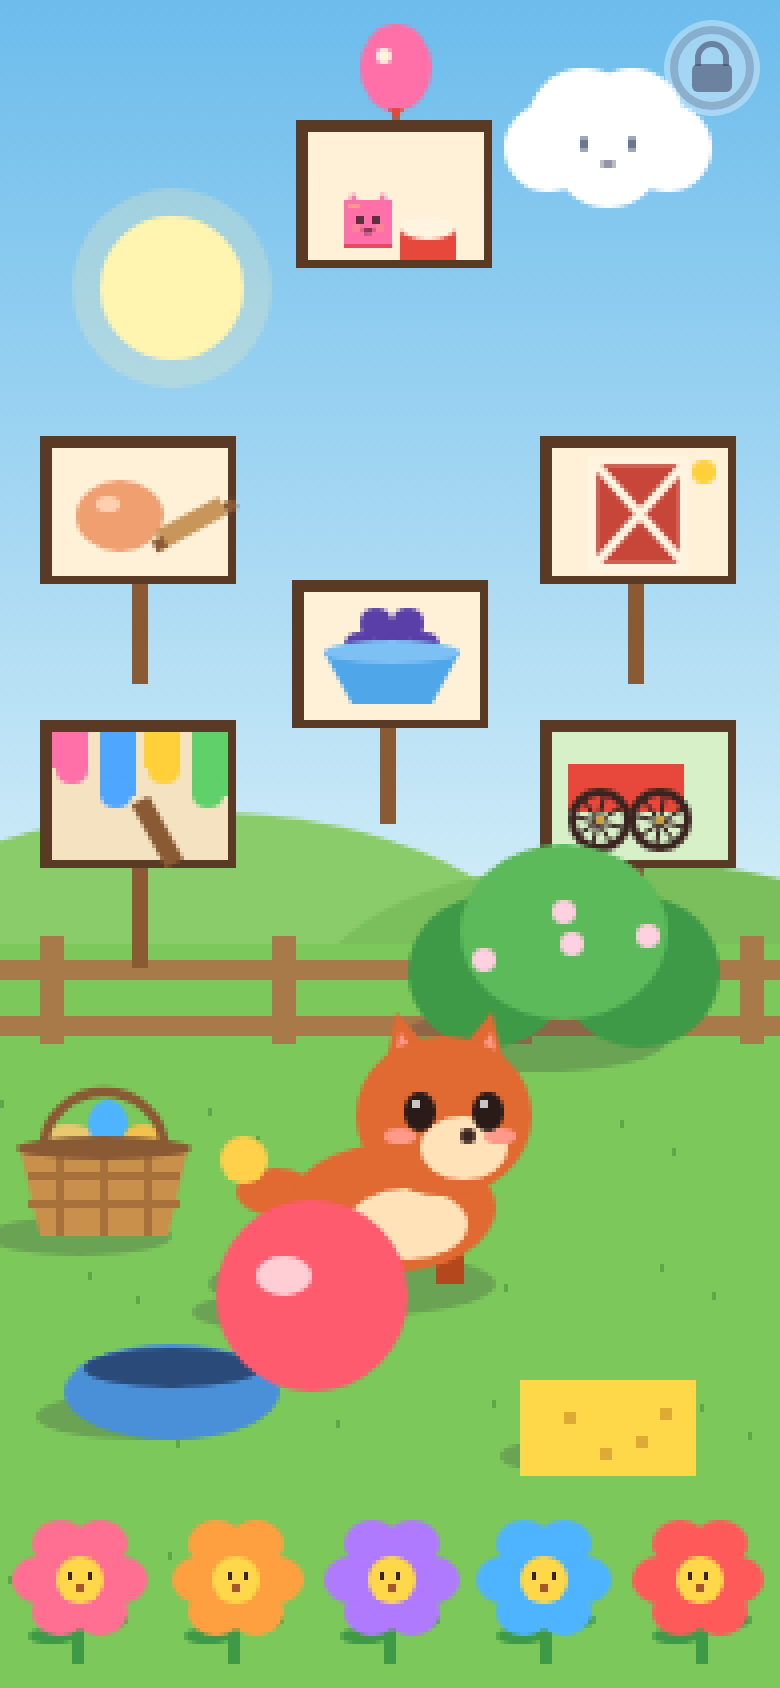
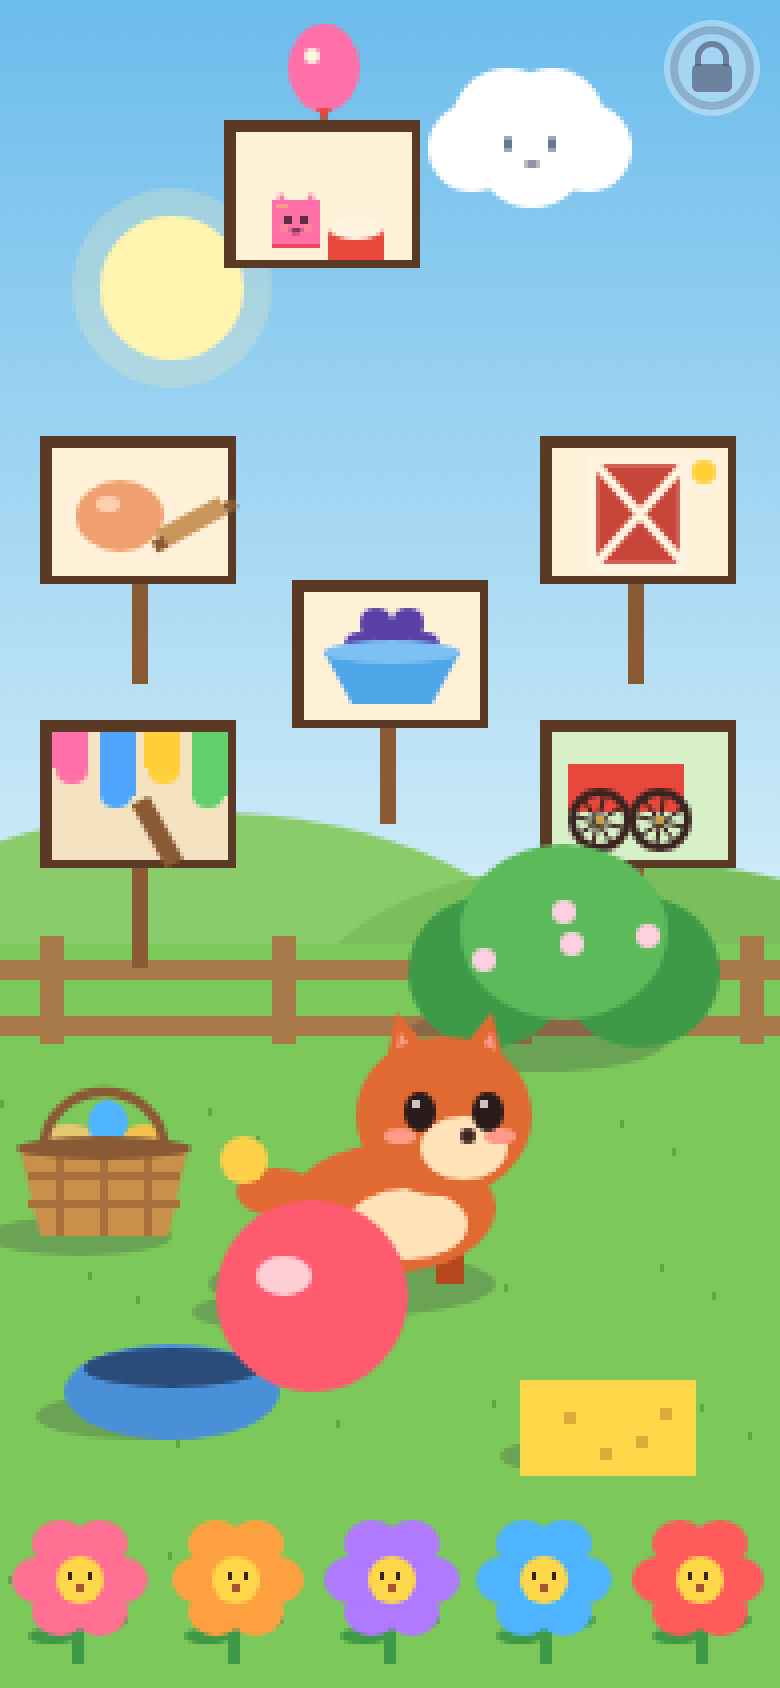
LR-TOYS-POLISH: keep the cloud off every sign board and the lock.
A cloud spot is refused when its body, eyes or mouth meet a sign board or the grown-up lock, and the face stays on screen. The pack sign stays at 0.85, 0.9, 0.8 and full size, with 285 of 285 taps.

Changed region(s): [[0.2769, 0.0, 0.9231, 0.1848]]

diff --git a/games/little-ranch/game.js b/games/little-ranch/game.js
@@ -333,20 +333,60 @@
       return winner(L.cloud.x, L.cloud.y) === 'cloud' && winner(sun.x, sun.y) === 'sun';
     }
     // Full size first. Slide the cloud aside (still clear of the sun) before easing the face gap. Shrink only when a large sign will not fit, and not below 0.72 while any large spot remains.
+    // A cloud spot is refused when its body, eyes or mouth meet a sign board (the pack sign included) or the grown-up lock. The face stays on screen.
     const tall = H >= W * 1.25, homeX = L.cloud.x, homeY = L.cloud.y, cr0 = L.cloud.r;
-    const cloudOk = x => x - cr0 * 1.3 >= 1 && x + cr0 * 1.3 <= W - 1 && Math.hypot(x - sun.x, homeY - sun.y) >= cr0 * 1.3 + L.U * .13;
-    const cloudXs = [homeX, W * .78, W * .88, W * .5, W * .42, W * .3, W * .2, W * .12].filter((x, i, all) => cloudOk(x) && all.findIndex(v => Math.abs(v - x) < .5) === i);
+    const cloudParts = (x, y) => [[-.75, .15, .55], [.75, .15, .55], [-.3, -.15, .7], [.3, -.2, .65], [0, .2, .7]].map(([dx, dy, k]) => ({ x: x + dx * cr0, y: y + dy * cr0, rx: cr0 * k, ry: cr0 * k })).concat([{ x: x - cr0 * .3, y: y + cr0 * .1, rx: cr0 * .07, ry: cr0 * .09 }, { x: x + cr0 * .3, y: y + cr0 * .1, rx: cr0 * .07, ry: cr0 * .09 }, { x, y: y + cr0 * .35, rx: cr0 * .12, ry: cr0 * .05 }]);
+    const partHits = (p, rect) => { const nx = Math.max(rect.x0, Math.min(p.x, rect.x1)), ny = Math.max(rect.y0, Math.min(p.y, rect.y1)); return ((nx - p.x) / p.rx) ** 2 + ((ny - p.y) / p.ry) ** 2 <= 1; };
+    const cloudHits = (x, y, extra) => {
+      const rects = five.map(n => box(L[n], 1, 'board')).concat(extra || []);
+      const lk = lockCanvas(); if (lk) rects.push(lk);
+      return cloudParts(x, y).some(p => rects.some(rect => partHits(p, rect)));
+    };
+    const faceOnScreen = (x, y) => cloudParts(x, y).slice(-3).every(p => p.x - p.rx >= 0 && p.x + p.rx <= W && p.y - p.ry >= 0 && p.y + p.ry <= H);
+    const cloudOk = (x, y) => x - cr0 * 1.3 >= 1 && x + cr0 * 1.3 <= W - 1 && Math.hypot(x - sun.x, y - sun.y) >= cr0 * 1.3 + L.U * .13 && faceOnScreen(x, y) && !cloudHits(x, y);
+    const z = L.size, hx0 = L.home.x + z * .42, hy0 = L.home.y - z * 1.25, hr = z * .66;
+    const headBox = { x0: hx0 - hr, x1: hx0 + hr, y0: hy0 - hr * 1.25, y1: hy0 + hr };
+    const br = L.R * 1.25, bx = L.bush.x, by = L.bush.y;
+    const bushE = [{ x: bx - br * .55, y: by - br * .3, rx: br * .6, ry: br * .55 }, { x: bx + br * .55, y: by - br * .3, rx: br * .6, ry: br * .55 }, { x: bx, y: by - br * .6, rx: br * .75, ry: br * .65 }];
+    const onBush = p => bushE.some(e => {
+      if (((p.x - e.x) / e.rx) ** 2 + ((p.y - e.y) / e.ry) ** 2 <= 1) return true;
+      for (let k = 0; k < 10; k++) { const a = k / 10 * 6.2832; if (((p.x + Math.cos(a) * p.rx - e.x) / e.rx) ** 2 + ((p.y + Math.sin(a) * p.ry - e.y) / e.ry) ** 2 <= 1) return true; }
+      return false;
+    });
+    const postsOf = () => five.map(n => box(L[n], 1, 'post'));
+    // The eyes and mouth have to stay off the posts, the bush and the baby's head, or the face is painted over.
+    const faceOpen = (x, y) => {
+      const posts = postsOf();
+      return cloudParts(x, y).slice(-3).every(p => !posts.some(rect => partHits(p, rect)) && !onBush(p) && !partHits(p, headBox));
+    };
+    const xSeeds = [homeX, W * .78, W * .88, W * .72, W * .68, W * .6, W * .5, W * .42, W * .3, W * .2, W * .12];
+    for (let x = W - cr0 * 1.3 - 1; x >= cr0 * 1.3 + 1; x -= Math.max(4, cr0 * .2)) xSeeds.push(x);
+    const ySeeds = [homeY];
+    for (let dy = cr0 * .35; homeY + dy < L.ground - cr0 * .2; dy += cr0 * .35) ySeeds.push(homeY + dy);
+    const spotsAt = y => { const xs = []; return xSeeds.filter(x => { if (xs.some(v => Math.abs(v - x) < .5) || !cloudOk(x, y)) return false; xs.push(x); return true; }); };
     const placeAt = scales => {
       const muls = tall ? [2.5, 2, 1.8] : [2.5, 1.5, 1.4];
-      for (const s of scales) for (const mul of muls) for (const x of cloudXs) {
-        L.cloud.x = x; L.cloud.y = homeY;
+      for (const s of scales) for (const mul of muls) for (const y of ySeeds) for (const x of spotsAt(y)) {
+        L.cloud.x = x; L.cloud.y = y;
         const hit = search(s, mul);
-        if (hit) return hit;
+        if (!(hit && !cloudHits(x, y, [box(hit, s, 'board')]))) continue;
+        let chosen = { x, y, hit };
+        if (!faceOpen(x, y)) {
+          for (let dx = cr0; dx >= -cr0; dx -= Math.max(2, cr0 * .08)) {
+            const nx = x + dx;
+            if (Math.abs(dx) < .5 || !cloudOk(nx, y) || !faceOpen(nx, y)) continue;
+            L.cloud.x = nx; L.cloud.y = y;
+            const h2 = search(s, mul);
+            if (h2 && !cloudHits(nx, y, [box(h2, s, 'board')])) { chosen = { x: nx, y, hit: h2 }; break; }
+          }
+        }
+        L.cloud.x = chosen.x; L.cloud.y = chosen.y;
+        return chosen.hit;
       }
       return null;
     };
     const placed = placeAt([1, .9, .85, .8, .78, .75, .72]) || placeAt([.6, .55, .48, .4, .34, .28]);
-    if (!placed) { L.cloud.x = homeX; L.cloud.y = homeY; }
+    if (!placed) { const y = ySeeds.find(y2 => spotsAt(y2).length) || homeY; L.cloud.x = (spotsAt(y)[0]) || homeX; L.cloud.y = y; }
     return placed || skySign(tall ? 1.8 : 1.4);
     function skySign(minMul) {
       const s = .28, rs = R * s * .95, br = rs * .42, y = fence - rs * .27 - 2;
@@ -1379,7 +1419,6 @@
     const sunY = lerp(L.sun.y, L.ground + U * .1, clamp(g * 1.6, 0, 1)); const glow = st.sun.glow;
     ell(L.sun.x, sunY, U * (.13 + glow * .07), U * (.13 + glow * .07), `rgba(255,240,180,${(.25 + glow * .35) * (1 - g)})`); ell(L.sun.x, sunY, U * (.09 + glow * .025), U * (.09 + glow * .025), glow > 0 ? mixHex('#fff4b0', '#ffffff', glow) : pick3('#fff4b0', '#ffb050', '#ff8040', g));
     if (st.sun.bow) drawRainbow(st.t - st.sun.bow.at);
-    drawCloud(g);
     if (g > .6) { const k = clamp((g - .6) / .4, 0, 1), mg = st.moon.song ? 1 : st.moon.glow, pulse = st.moon.song ? clamp(1 - (st.t - st.moon.song.beat) / BEAT, 0, 1) * .25 : 0;
       if (mg > 0) { ell(W * .8, lerp(L.ground, H * .16, k), U * (.11 + mg * .05 + pulse * .03), U * (.11 + mg * .05 + pulse * .03), `rgba(240,240,200,${.12 + mg * .2 + pulse * .2})`); }
       ell(W * .8, lerp(L.ground, H * .16, k), U * .07, U * .07, '#f4f0d8'); ell(W * .8 + U * .03, lerp(L.ground, H * .16, k) - U * .02, U * .06, U * .06, (mg > 0 ? mixHex('#121a44', '#5a5e6e', clamp((.12 + mg * .2 + pulse * .2) / .37, 0, 1)) : '#121a44')); }
@@ -1388,6 +1427,7 @@
     cx.fillStyle = pick3('#a87a4a', '#a06a3a', '#3a2e38', g); const fy = L.ground + U * .02; cx.fillRect(0, R(fy), W, Math.max(1, R(U * .025))); cx.fillRect(0, R(fy + U * .07), W, Math.max(1, R(U * .025)));
     for (let x = W * .05; x < W; x += U * .3) cx.fillRect(R(x), R(fy - U * .03), Math.max(2, R(U * .03)), R(U * .14));
     for (let i = 0; i < 30; i++) { const x = (i * 61.7) % W, y = L.ground + U * .2 + (i * 37.1) % (H - L.ground - U * .2); cx.fillStyle = pick3('#5aa848', '#8a8a40', '#1e3a36', g); cx.fillRect(R(x), R(y), 1, 2); }
+    drawCloud(g);
     drawHint();
     drawPuddles(); drawBasket(g); drawDSign(g); drawTSign(g); drawPSign(g); drawSign(g); drawWheelSign(g); drawKSign(g);
     const hidden = st.baby.act === 'hide' || st.baby.act === 'peek';

diff --git a/tests/little-ranch.html b/tests/little-ranch.html
@@ -1017,6 +1017,22 @@ document.querySelector('#run').onclick = async () => {
           let boardTaps = 0, boardOk = 0;
           for (let i = 0; i <= 18; i++) for (let j = 0; j <= 14; j++) { boardTaps++; if (LR.ranchTarget({ x: Ls.psign.x - rsNow * .95 + i * rsNow * 1.9 / 18, y: Ls.psign.y - rsNow * 1.17 + j * rsNow * 1.44 / 14 }) === 'psign') boardOk++; }
           check(`${label}: the pack sign stays at least 0.72 scale (${signScale}) and its tap is ${Math.round(cssW)}×${Math.round(cssH)} CSS px, with no big drop from a full-size sign (${Math.round(areaDrop * 100)}% smaller) and ${boardOk} of ${boardTaps} board taps`, signScale >= .72 && Math.min(cssW, cssH) >= 44 && areaDrop <= 1 - .72 * .72 + 1e-9 && boardOk === boardTaps);
+          const puffs = [[-.75, .15, .55], [.75, .15, .55], [-.3, -.15, .7], [.3, -.2, .65], [0, .2, .7]].map(([dx, dy, k]) => ({ x: cloud.x + dx * cr, y: cloud.y + dy * cr, rx: cr * k, ry: cr * k }));
+          const eyes = [{ x: cloud.x - cr * .3, y: cloud.y + cr * .1, rx: cr * .07, ry: cr * .09 }, { x: cloud.x + cr * .3, y: cloud.y + cr * .1, rx: cr * .07, ry: cr * .09 }];
+          const mouth = { x: cloud.x, y: cloud.y + cr * .35, rx: cr * .12, ry: cr * .05 };
+          const inEll = (p, x, y) => ((x - p.x) / p.rx) ** 2 + ((y - p.y) / p.ry) ** 2 <= 1;
+          const inBox = (r, x, y) => x >= r.x0 && x <= r.x1 && y >= r.y0 && y <= r.y1;
+          const lkEl = d.querySelector('#lock').getBoundingClientRect(), cvR = cv.getBoundingClientRect();
+          const lockR = { x0: (lkEl.left - cvR.left) / cvR.width * cv.width - 3, y0: (lkEl.top - cvR.top) / cvR.height * cv.height - 3, x1: (lkEl.right - cvR.left) / cvR.width * cv.width + 3, y1: (lkEl.bottom - cvR.top) / cvR.height * cv.height + 3 };
+          const blockers = ['sign', 'wsign', 'ksign', 'tsign', 'dsign', 'psign'].map(boardOf).concat([lockR]);
+          let bodyN = 0, bodyHit = 0;
+          for (let y = cloud.y - cr * 1.4; y <= cloud.y + cr * 1.2; y += .5) for (let x = cloud.x - cr * 1.4; x <= cloud.x + cr * 1.4; x += .5) {
+            if (!puffs.some(p => inEll(p, x, y))) continue;
+            bodyN++; if (blockers.some(r => inBox(r, x, y))) bodyHit++;
+          }
+          const open = part => { let n = 0, ok = 0; for (let y = part.y - part.ry; y <= part.y + part.ry; y += .25) for (let x = part.x - part.rx; x <= part.x + part.rx; x += .25) { if (!inEll(part, x, y)) continue; n++; if (x >= 0 && x <= cv.width && y >= 0 && y <= cv.height && blockers.every(r => !inBox(r, x, y))) ok++; } return n > 0 && ok === n; };
+          const covered = bodyN ? bodyHit / bodyN : 0;
+          check(`${label}: the cloud at ${cloud.x.toFixed(1)}, ${cloud.y.toFixed(1)} has 0% of its body on a sign board or the lock (${(covered * 100).toFixed(1)}%) and its face and mouth are fully visible`, bodyHit === 0 && eyes.every(open) && open(mouth));
         }
       } finally { restoreDpr(); }
       frame.style.width = '844px'; frame.style.height = '390px'; await sleep(150); LR.newVisit(); LR.advance(.1);
